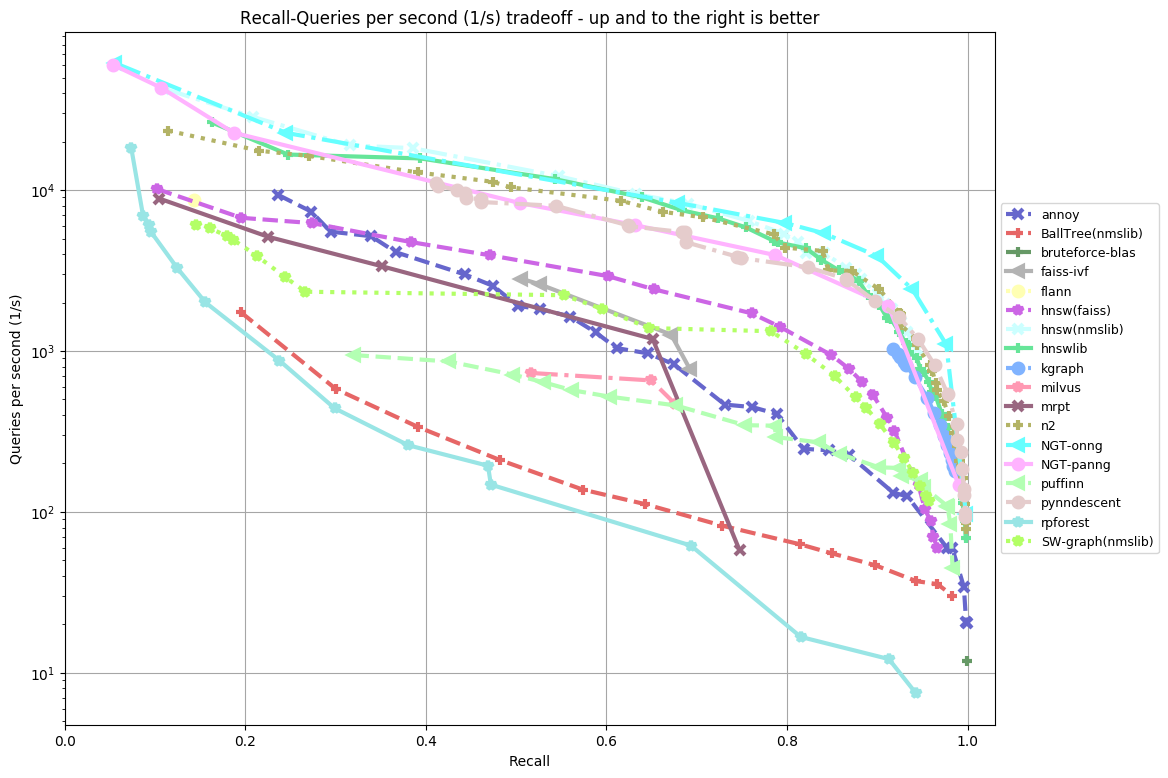
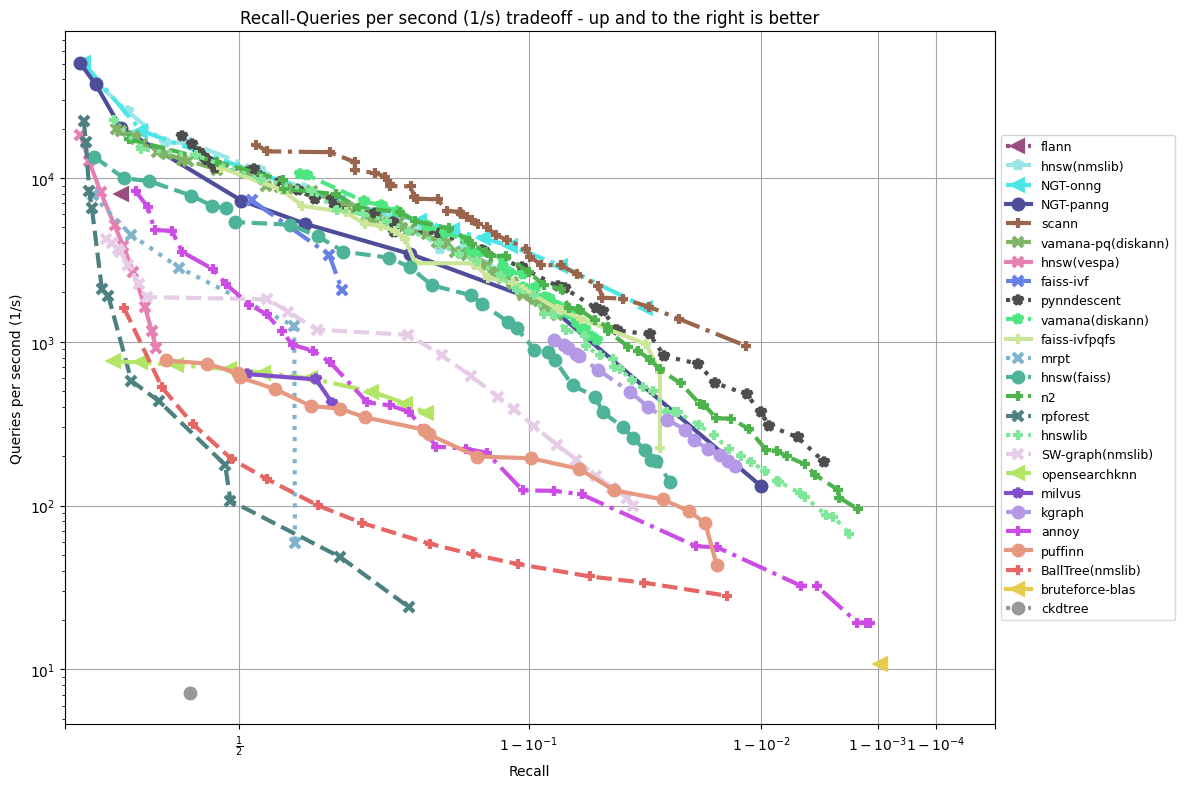
rebased

diff --git a/plot.py b/plot.py
@@ -48,7 +48,7 @@ def create_plot(all_data, raw, x_scale, y_scale, xn, yn, fn_out, linestyles,
     ax.set_xlabel(xm['description'])
     # Custom scales of the type --x-scale a3
     if x_scale[0] == 'a':
-        alpha = int(x_scale[1:])
+        alpha = float(x_scale[1:])
         fun = lambda x: 1-(1-x)**(1/alpha)
         inv_fun = lambda x: 1-(1-x)**alpha
         ax.set_xscale('function', functions=(fun, inv_fun))

diff --git a/README.md b/README.md
@@ -59,8 +59,7 @@ We have a number of precomputed data sets for this. All data sets are pre-split 
 Results
 =======
 
-Interactive plots can be found at <http://ann-benchmarks.com>.
-The following results are all as of 2020-07-12, running all benchmarks on a c5.4xlarge machine on AWS with `--parallelism` set to 3:
+Interactive plots can be found at <http://ann-benchmarks.com>. These are all as of December 2021, running all benchmarks on a r5.4xlarge machine on AWS with `--parallelism 7`:
 
 glove-100-angular
 -----------------
